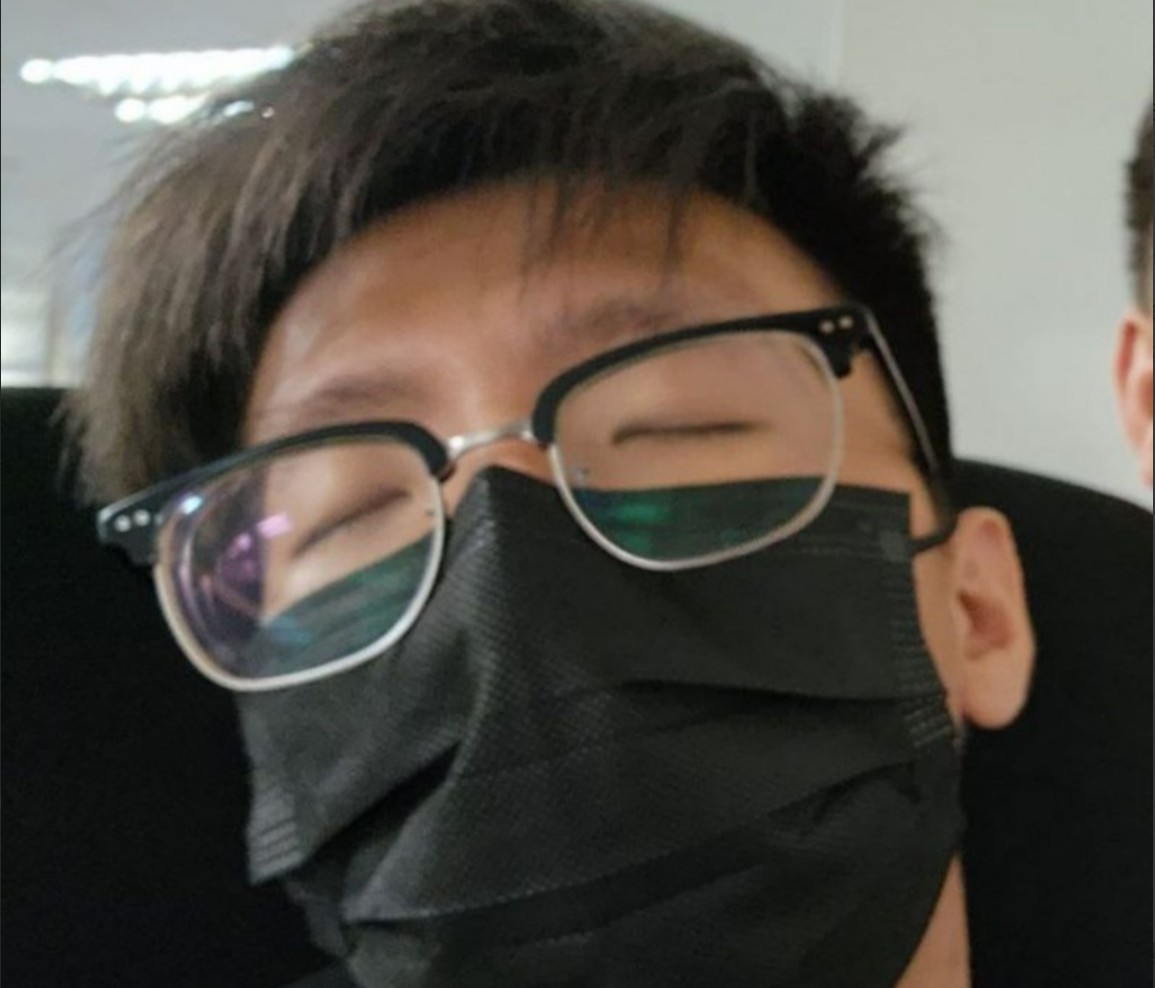
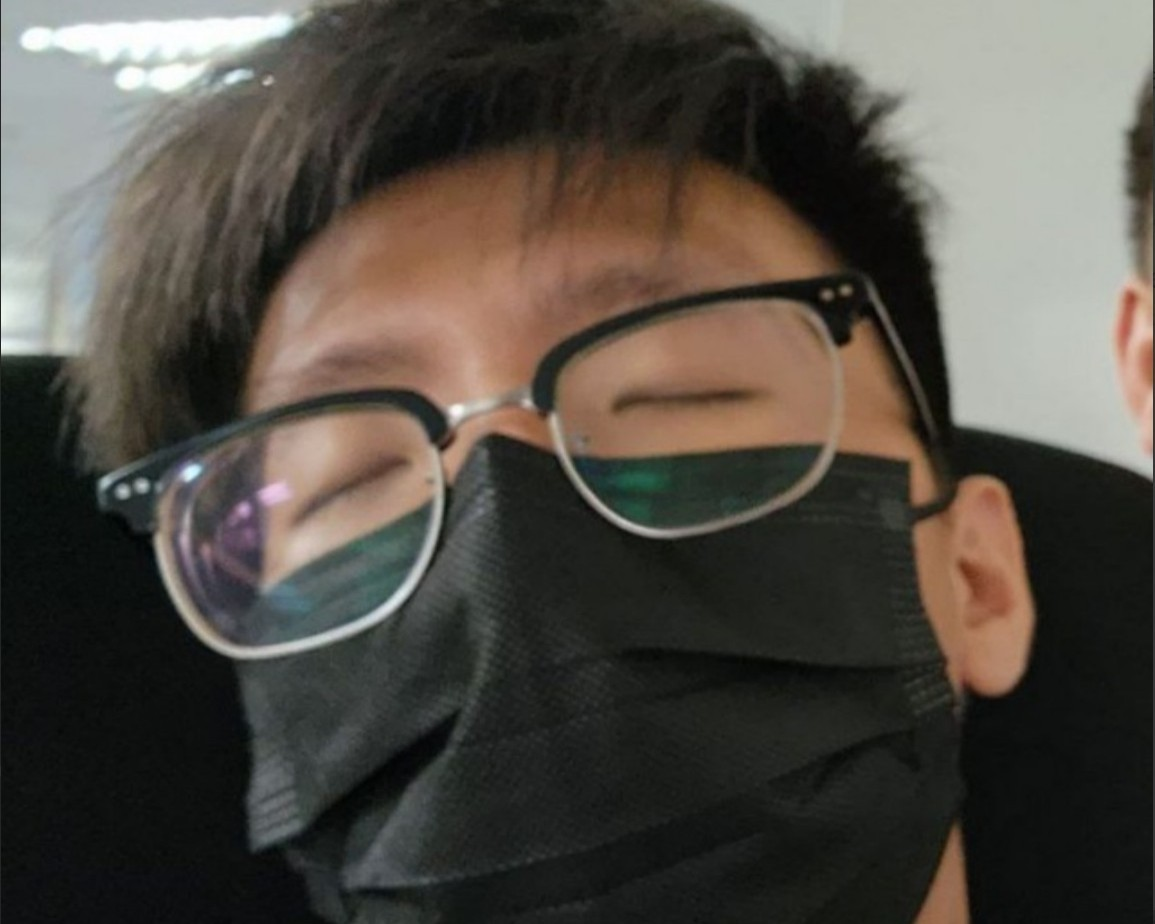
pic resize

diff --git a/Lab08/aboutus.php b/Lab08/aboutus.php
@@ -78,7 +78,7 @@
     <div class="row g-4 justify-content-center">
         <div class="col-md-6 col-lg-4">
             <div class="card h-100 shadow-sm">
-                <img src="images/john.png" class="card-img-top" alt="Team member">
+                <img src="images/eugene.jpg" class="card-img-top" alt="Team member">
                 <div class="card-body text-center">
                     <h3 class="card-title">Ong Eugene</h3>
                     <p class="card-subtitle text-dark mb-3">Student at SIT</p>
